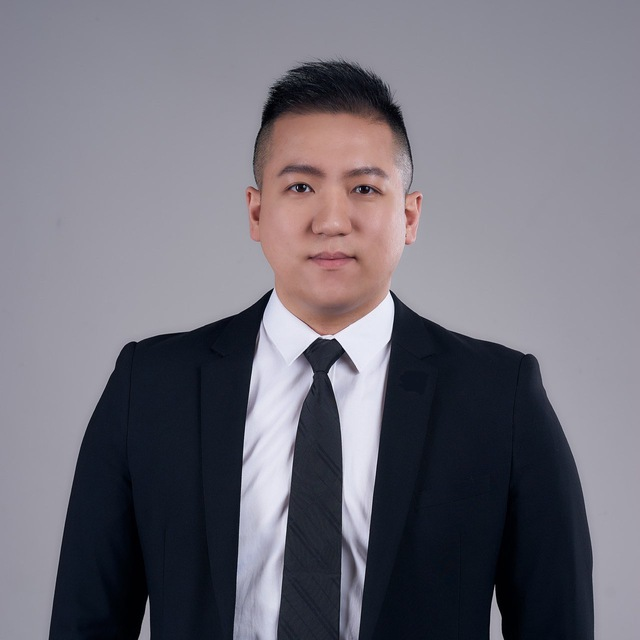
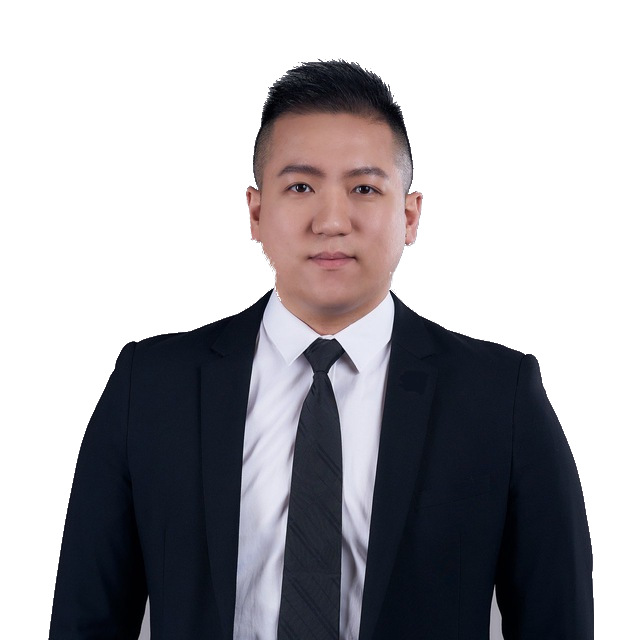
make photos style more uniform

diff --git a/business-proposal.html b/business-proposal.html
@@ -23,6 +23,7 @@
 	<li><a href="#usage">用法</a></li>
 	<li><a href="#painPoint">用户痛点</a></li>
 	<li><a href="#marketAnalysis">市场分析</a></li>
+	<li><a href="#AI">发展人工智能</a></li>
 	<li><a href="#competition">竞争者</a></li>
 	<li><a href="#bizModel">商业模式</a></li>
 	<li><a href="#currentState">运营现状</a></li>
@@ -133,6 +134,12 @@
 
 <hr>
 
+<h2 id="AI">发展人工智能</h2>
+
+<p><to-do/>《渡过雪原》可以用来发展复杂的人工智能系统.....</p>
+
+<hr>
+
 <h2 id="competition">竞争者</h2>
 
 <p><to-do/>简单介绍 竞争者.....</p>
@@ -149,7 +156,7 @@
 
 <h2 id="bizModel">商业模式</h2>
 
-<p>类似 KickStarter 的合作平台</p>
+<p><to-do/>类似 KickStarter 的合作平台</p>
 
 <hr>
 
@@ -161,10 +168,11 @@
 
 <h2 id="team">团队</h2>
 
-<div style="display:inline-block; vertical-align:top;">
-	<img src="images/Alvin.jpg" style="width:200px;">
+<section style="display:block; margin-bottom:30px;">
+<div style="float:left; vertical-align:top;">
+	<img src="images/Alvin.jpg" style="width:200px; margin:20px;">
 </div>
-<div style="display:inline-block; width:800px;">
+<div style="overflow:auto;">
 This is Alvin (路立安), a highly adaptive and result-oriented person with a growth mindset and problem-solving skills, have more than 10 years of business and partnership development experience in various fast-paced environments and startup teams, always focusing on strategically growing the business and building better teamwork for the company, and well experienced in
 <ul>
 <li>Business, Partnership, Channel, and Affiliate Development</li>
@@ -172,20 +180,31 @@ This is Alvin (路立安), a highly adaptive and result-oriented person with a g
 <li>Go-To-Market Strategy Planning</li>
 <li>From 0 to 1, build projects from scratch</li>
 </ul>
-I never get tired of learning cutting-edge technology and new stuff like web3, metaverse, blockchain, AI, and ESG, people in these industries focus on growing the whole industry and providing a better living standard for mankind<br>
+I never get tired of learning cutting-edge technology and new stuff like web3, metaverse, blockchain, AI, and ESG, people in these industries focus on growing the whole industry and providing a better living standard for mankind.<br>
 LinkedIn profile: <a href="https://www.linkedin.com/in/alvin-lu-lap-on/">https://www.linkedin.com/in/alvin-lu-lap-on/</a>
 </div>
-<br>
+</section>
+
+<section style="clear:left; margin-bottom:40px;">
+<div style="float:left; vertical-align:top;">
+	<img src="images/Sherry.jpg" style="width:200px; margin:20px;">
+</div>
+<div style="overflow:auto;">
+Sherry (黄晨雪), ......
+</div>
+</section>
 <br>
 
-<div style="display:inline-block; vertical-align:top;">
-	<img src="images/YKY.png" style="width:200px;">
+<section style="clear:left; margin-bottom:30px;">
+<div style="float:left; vertical-align:top;">
+	<img src="images/YKY.png" style="width:200px; margin:20px;">
 </div>
-<div style="display:inline-block; width:800px;">
-YKY (甄景贤), independent AGI researcher from Hong Kong.  I want to live forever, which is why I devote my life to researching strong AI and to advocate for the movement known as Transhumanism.  I am also a strong advocate for racial equality and global egalitarianism.  I have dreamed of distributive organizations since the 1990's, at a time when BitCoin had not been born yet.  I remember reading the e-mails of Wei Dai (戴唯), the creator of B-Money, a precursor of BitCoin.  I saw the beginning of Aragon, when they had only a white paper, and I wondered whether it will ever be developed to be usable for a real company.  There were many missing elements (such as the cluster structure, block chains, for-profit open-source software licenses, etc), but gradually they become available or the solution ideas occurred to me.  
+<div style="overflow:auto;">
+YKY (甄景贤), independent AGI researcher from Hong Kong.  I want to live forever, which is why I devote my life to researching strong AI and to advocate for the movement known as Transhumanism.  I am also a strong advocate for racial equality and global egalitarianism.  I have dreamed of distributive organizations since the 1990's, at a time when BitCoin had not been born yet.  I remember reading the e-mails of Wei Dai (戴唯), the creator of B-Money, a precursor of BitCoin.  I saw the beginning of Aragon, when they had only a white paper, and I wondered whether it will ever be developed to be usable for a real company.  There were many missing elements (such as the cluster structure, block chains, for-profit open-source software licenses, etc), but gradually they become available or the solution ideas occurred to me.  I think we are witnessing a dramatic transformation of human life by new technologies and I am sick of Chinese people always being the followers instead of making real contributions to high tech.
 </div>
+</section>
 
-<hr>
+<hr style="clear:left;">
 
 <h2 id="development">发展规划</h2>
 

diff --git a/css/style.css b/css/style.css
@@ -17,5 +17,5 @@ b, i {
 
 to-do::before {
 	color: Red;
-	content: "TO-DO:";
+	content: "TO-DO: ";
 }
